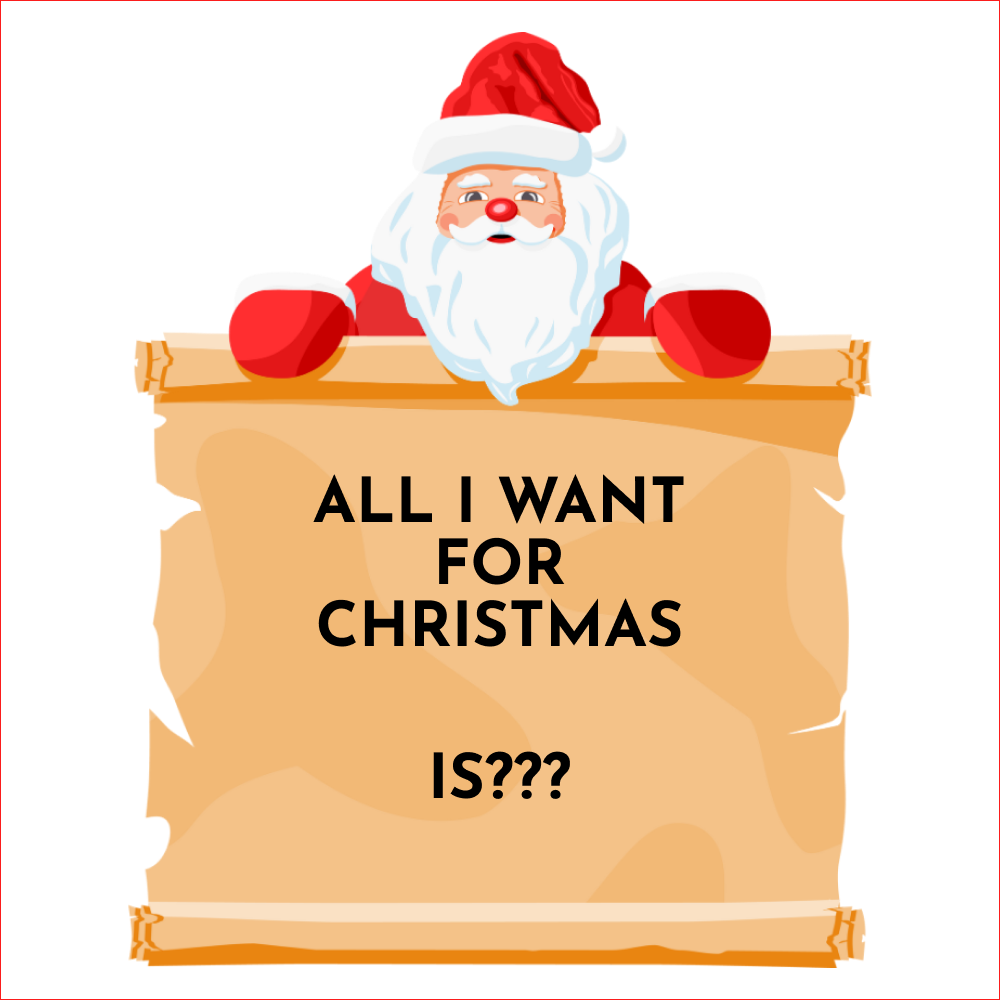
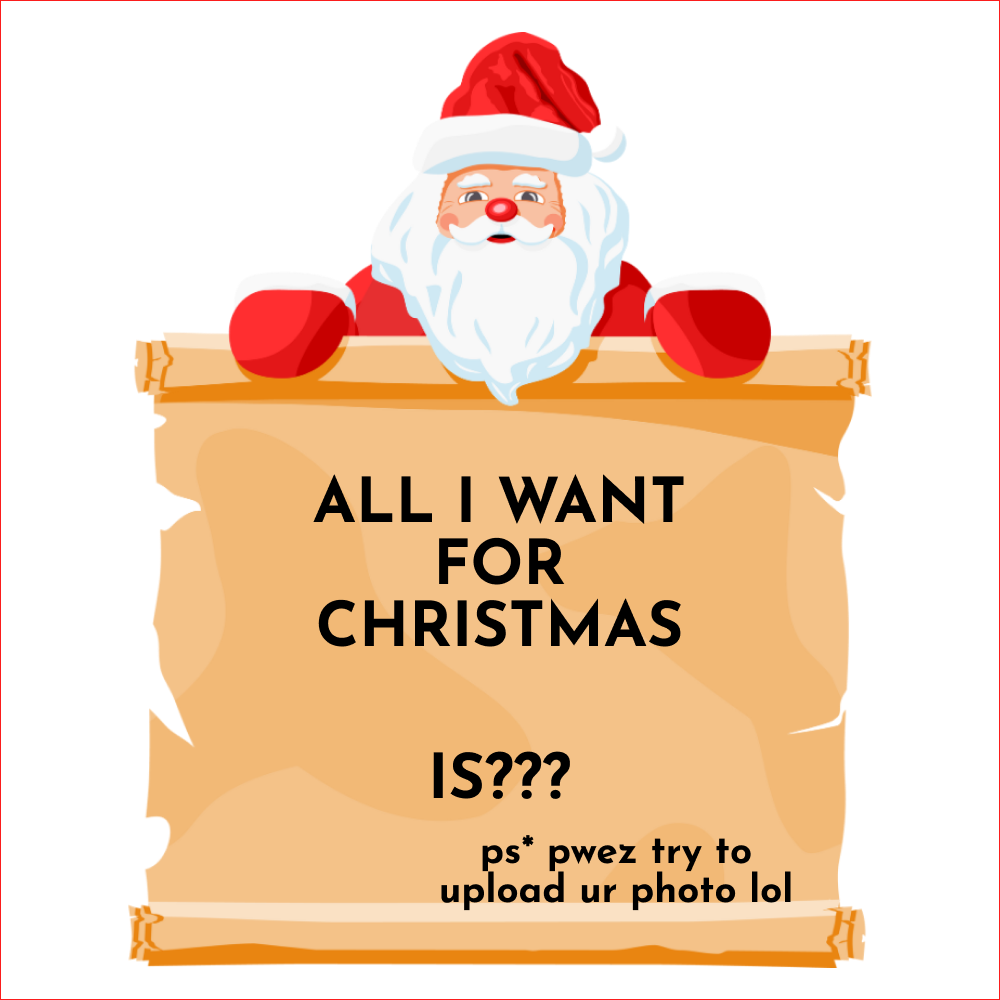
updted

Changed region(s): [[0.434, 0.837, 0.806, 0.93]]

diff --git a/script.js b/script.js
@@ -1,22 +1,22 @@
 const scenes = [
     {
-        poem: "In the hush of winter's night,\nLove's warmth glows, a soft delight.\nUnderneath the stars so bright,\nMerry Christmas, my heart takes flight.",
+        poem: "In the quiet of the night,\nSnowflakes fall, pure and white.\nWishing you peace and light,\nMerry Christmas, all is right.",
         image: "https://source.unsplash.com/featured/?winter,night"
     },
     {
-        poem: "In a cabin snug, with hearts aglow,\nTogether we share the warmth of snow.\nWith every laugh, our spirits grow,\nMerry Christmas, let love flow.",
+        poem: "By the fire's gentle glow,\nMemories of joy we sow.\nIn this season, love will grow,\nMerry Christmas, warmth we know.",
         image: "https://source.unsplash.com/featured/?cabin,christmas"
     },
     {
-        poem: "Among the lights, our laughter rings,\nIn every gift, a love that sings.\nMerry Christmas, my heart it clings,\nTo you, my dear, the joy it brings.",
+        poem: "Amidst the twinkling lights,\nHope and cheer reach new heights.\nMerry Christmas, hearts take flight,\nIn this season, all feels right.",
         image: "https://source.unsplash.com/featured/?christmas,market"
     },
     {
-        poem: "Underneath the starlit sky,\nI make a wish, just you and I.\nMerry Christmas, let love fly,\nTogether, forever, you and I.",
+        poem: "Under stars so clear and bright,\nDreams and wishes take their flight.\nMerry Christmas, pure delight,\nIn this moment, all is light.",
         image: "https://source.unsplash.com/featured/?starry,night"
     },
     {
-        poem: "As this journey comes to an end,\nKnow that you are my dearest friend.\nMerry Christmas, my heart will send,\nA wish for love that will never bend.",
+        poem: "As the year comes to a close,\nGratitude and love compose.\nMerry Christmas, joy bestows,\nIn our hearts, the warmth still glows.",
         image: "https://source.unsplash.com/featured/?love,christmas"
     }
 ];
@@ -32,7 +32,7 @@ const card = document.querySelector('.card');
 const backgroundMusic = document.getElementById('backgroundMusic');
 
 function updateCard() {
-    cardHeader.textContent = `Scene ${currentScene + 1}`;
+    cardHeader.textContent = "Merry Christmas!";
     cardPoem.textContent = scenes[currentScene].poem;
     cardImage.src = scenes[currentScene].image;
     cardContent.classList.add('fade-in');
@@ -72,96 +72,44 @@ nextButton.addEventListener('click', () => {
     updateCard();
 });
 
-// Camera functionality
-const santaPhotoBtn = document.querySelector('.santa-photo-btn');
-const cameraModal = document.querySelector('.camera-modal');
-const cameraView = document.getElementById('cameraView');
-const photoCanvas = document.getElementById('photoCanvas');
-const takePhotoBtn = document.getElementById('takePhotoBtn');
-const retakePhotoBtn = document.getElementById('retakePhotoBtn');
-const savePhotoBtn = document.getElementById('savePhotoBtn');
-const closeCameraBtn = document.getElementById('closeCameraBtn');
+// Image upload functionality
+const uploadButton = document.querySelector('.upload-button');
+const fileInput = document.createElement('input');
+fileInput.type = 'file';
+fileInput.accept = 'image/*';
+const uploadedImageContainer = document.querySelector('.uploaded-image-container');
+const uploadedImage = document.querySelector('.uploaded-image');
 
-let stream = null;
+uploadButton.addEventListener('click', () => {
+    fileInput.click();
+});
 
-const santaBtn = document.getElementById('santaBtn');
-const templateOverlay = document.getElementById('templateOverlay');
-const previewContainer = document.querySelector('.preview-container');
-const previewImage = document.getElementById('previewImage');
+fileInput.addEventListener('change', (event) => {
+    const file = event.target.files[0];
+    if (file) {
+        const reader = new FileReader();
+        reader.onload = (e) => {
+            const img = new Image();
+            img.src = e.target.result;
+            img.onload = () => {
+                const canvas = document.createElement('canvas');
+                const context = canvas.getContext('2d');
+                canvas.width = img.width;
+                canvas.height = img.height;
 
-santaBtn.addEventListener('click', async () => {
-    cameraModal.style.display = 'flex';
-    try {
-        stream = await navigator.mediaDevices.getUserMedia({ 
-            video: { 
-                facingMode: "user",
-                width: { ideal: 1280 },
-                height: { ideal: 720 }
-            } 
-        });
-        cameraView.srcObject = stream;
-        
-        // Set template size to match camera view
-        setTimeout(() => {
-            templateOverlay.style.width = cameraView.offsetWidth + 'px';
-            templateOverlay.style.height = cameraView.offsetHeight + 'px';
-        }, 100);
-    } catch (err) {
-        console.error('Camera error:', err);
-        alert('Unable to access camera');
+                // Draw the uploaded image
+                context.drawImage(img, 0, 0, canvas.width, canvas.height);
+
+                // Draw the overlay
+                const overlay = new Image();
+                overlay.src = 'asset/TwibbonTemplate.png';
+                overlay.onload = () => {
+                    context.drawImage(overlay, 0, 0, canvas.width, canvas.height);
+                    uploadedImage.src = canvas.toDataURL();
+                    uploadedImageContainer.style.display = 'block';
+                };
+            };
+        };
+        reader.readAsDataURL(file);
     }
 });
-
-takePhotoBtn.addEventListener('click', () => {
-    const context = photoCanvas.getContext('2d');
-    photoCanvas.width = cameraView.videoWidth;
-    photoCanvas.height = cameraView.videoHeight;
-    
-    // Draw the video frame
-    context.drawImage(cameraView, 0, 0, photoCanvas.width, photoCanvas.height);
-
-    // Delay drawing overlay
-    setTimeout(() => {
-        context.drawImage(templateOverlay, 0, 0, photoCanvas.width, photoCanvas.height);
-        // Show preview
-        previewImage.src = photoCanvas.toDataURL();
-        // ...existing code...
-        previewContainer.style.display = 'block';
-    
-        // Update UI
-        takePhotoBtn.style.display = 'none';
-        retakePhotoBtn.style.display = 'inline';
-        savePhotoBtn.style.display = 'inline';
-        cameraView.style.display = 'none';
-        photoCanvas.style.display = 'block';
-    }, 100);
-});
-
-retakePhotoBtn.addEventListener('click', () => {
-    cameraView.style.display = 'block';
-    photoCanvas.style.display = 'none';
-    savePhotoBtn.style.display = 'none';
-});
-
-savePhotoBtn.addEventListener('click', () => {
-    const link = document.createElement('a');
-    link.download = 'santa-photo.png';
-    link.href = photoCanvas.toDataURL();
-    link.click();
-});
-
-function stopCamera() {
-    if (stream) {
-        stream.getTracks().forEach(track => track.stop());
-    }
-    cameraView.srcObject = null;
-    photoCanvas.style.display = 'none';
-    cameraView.style.display = 'block';
-    takePhotoBtn.style.display = 'inline';
-    retakePhotoBtn.style.display = 'none';
-    savePhotoBtn.style.display = 'none';
-    previewContainer.style.display = 'none';
-}
-
-// Clean up when the page is unloaded
-window.addEventListener('beforeunload', stopCamera);

diff --git a/index.html b/index.html
@@ -37,21 +37,14 @@
         <img id="previewImage" src="" alt="Preview">
     </div>
 
-    <!-- Add Camera Modal -->
-    <div class="camera-modal">
-        <div class="camera-container">
-            <video id="cameraView" autoplay playsinline></video>
-            <canvas id="photoCanvas"></canvas>
-            <img src="asset/TwibbonTemplate.png"
-                 alt="Santa Overlay"
-                 id="templateOverlay">
-            <div class="camera-buttons">
-                <button class="camera-btn" id="takePhotoBtn">Take Photo</button>
-                <button class="camera-btn" id="retakePhotoBtn" style="display: none;">Retake</button>
-                <button class="camera-btn" id="savePhotoBtn" style="display: none;">Save</button>
-                <button class="camera-btn" id="closeCameraBtn">Close</button>
-            </div>
-        </div>
+    <!-- Add upload button and container for uploaded image -->
+    <div class="upload-button">
+        <img src="asset/SantaWithAFactPlaceHolder.png" alt="Upload Your Picture">
+    </div>
+
+    <div class="uploaded-image-container" style="display: none;">
+        <img class="uploaded-image" src="" alt="Uploaded Image">
+        <img class="overlay" src="asset/TwibbonTemplate.png" alt="Overlay">
     </div>
 
     <div class="christmas-tree"></div>

diff --git a/styles.css b/styles.css
@@ -484,3 +484,45 @@ h1 {
     height: 100%;
     object-fit: cover;
 }
+
+.upload-button {
+    position: absolute;
+    top: 20px;
+    right: 20px;
+    width: 150px;
+    height: 150px;
+    cursor: pointer;
+    transition: transform 0.3s;
+    z-index: 10;
+}
+
+.upload-button img {
+    width: 100%;
+    height: 100%;
+    object-fit: contain;
+    filter: drop-shadow(0 0 10px rgba(255, 215, 0, 0.5));
+}
+
+.upload-button:hover {
+    transform: scale(1.1);
+    filter: brightness(1.2);
+}
+
+.uploaded-image-container {
+    position: relative;
+    width: 640px;
+    height: 480px;
+    margin: 20px auto;
+    border-radius: 10px;
+    overflow: hidden;
+    box-shadow: 0 0 20px rgba(255, 215, 0, 0.3);
+}
+
+.uploaded-image-container img {
+    width: 100%;
+    height: 100%;
+    object-fit: cover;
+}
+
+.uploaded-image-container .overlay {
+    display: none; /* Ensure overlay is not displayed directly */
